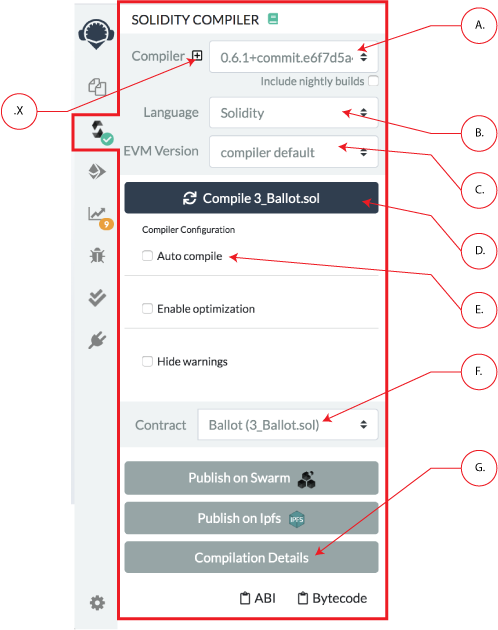
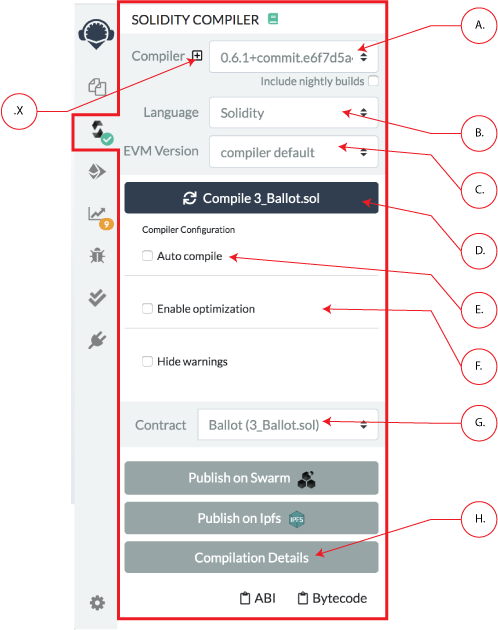
update to sol compiler

diff --git a/docs/compile.md b/docs/compile.md
@@ -16,18 +16,21 @@ However, the older compilers use a legacy AST — which we no longer support. Co
 The "fork selection" dropdown list ( **C. in image below**) allows to compile code against a specific **ethereum hard fork**. 
 The `compiler default` corresponds to the default hard fork used by a specific version. 
 
-To see the name of the hard fork used in the current compilation, click the "Compilation Details" button( **G. in image below**) and in the `Metadata` section will be a sub-section called **settings**.  Open up the **settings** to see the hard fork's name.
+To see the name of the hard fork used in the current compilation, click the "Compilation Details" button( **H. in image below**) and in the `Metadata` section will be a sub-section called **settings**.  Open up the **settings** to see the hard fork's name.
 
 ![](images/a-sol-compiler.png)
 
 ### Auto Compile
 If a contract has a lot of dependencies it can take a while to compile - so you use autocompilation at your discretion.
 
+### Enable optimization
+To learn more about optimization, ( **F. in the image**) visit the [Solidity docs on the subject](https://docs.soliditylang.org/en/latest/internals/optimizer.html).
+
 ### Compilation Details and Publishing
 
 Because a solidity file can include multiple contracts and because contracts can import other contracts,  **multiple contracts are often compiled**.  **However**, only 1 contract's compilation details can be retrieved at a time. 
 
-To select the desired contract, use the **Contract select box** ( **F. in the image**).  
+To select the desired contract, use the **Contract select box** ( **G. in the image**).  
 
 Using the publish button, you can upload your contract to Swarm (only non
 abstract contracts can be published) & IPFS. 
@@ -38,7 +41,7 @@ When publishing contracts that import other contract,  the main contract and all
 
 After a contract is published, **a modal will pop up**.  This modal contains the contract's address as well as the addreses of the contracts that it imported and the address of the contract's **metadata**.
 
-When the "Compilation Details" button is clicked ( **G. in image**), a modal opens displaying detailed information about the current selected contract.
+When the "Compilation Details" button is clicked ( **H. in image**), a modal opens displaying detailed information about the current selected contract.
 
 ### Compilation Errors and Warning
 Compilation Errors and Warning are displayed below the contract section.
